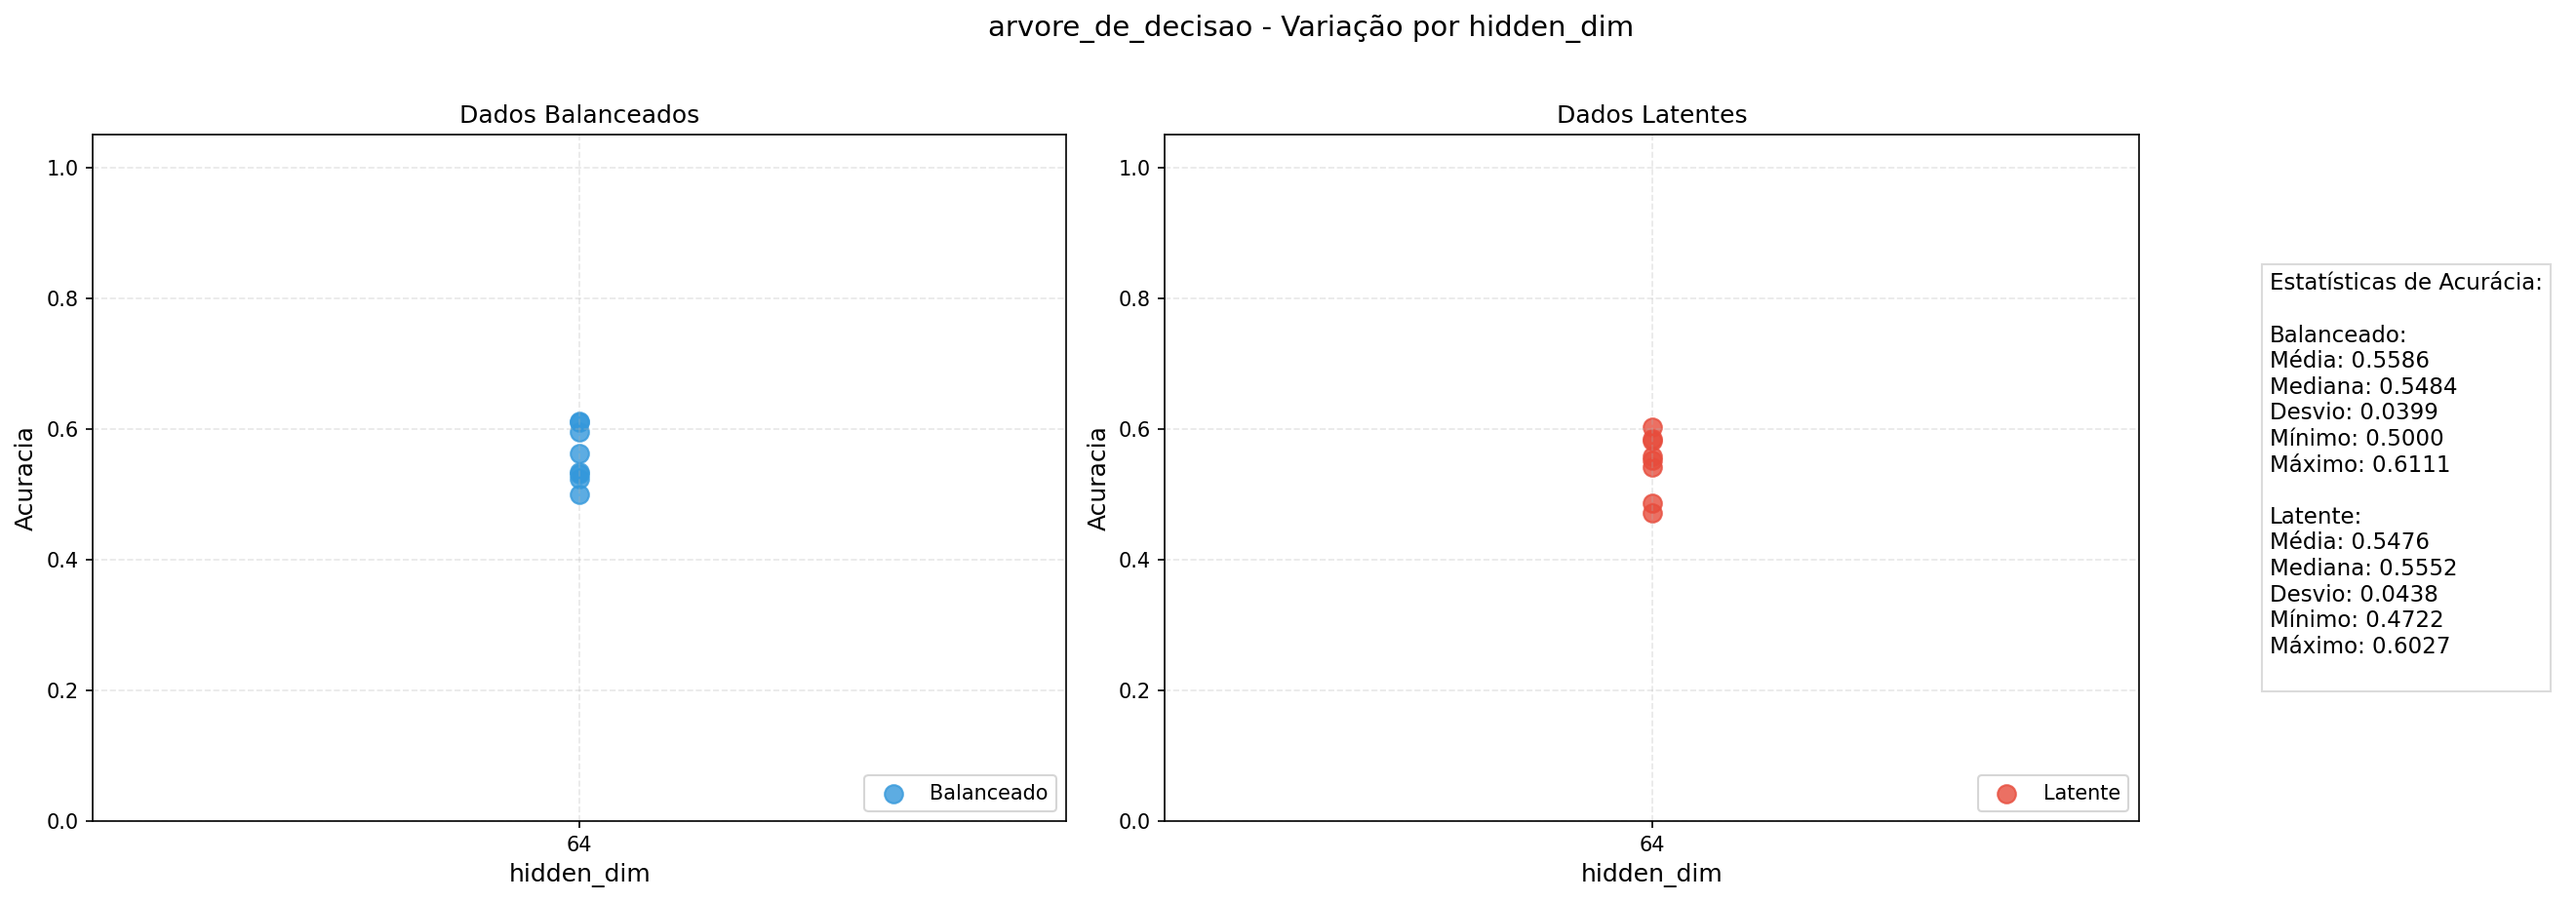
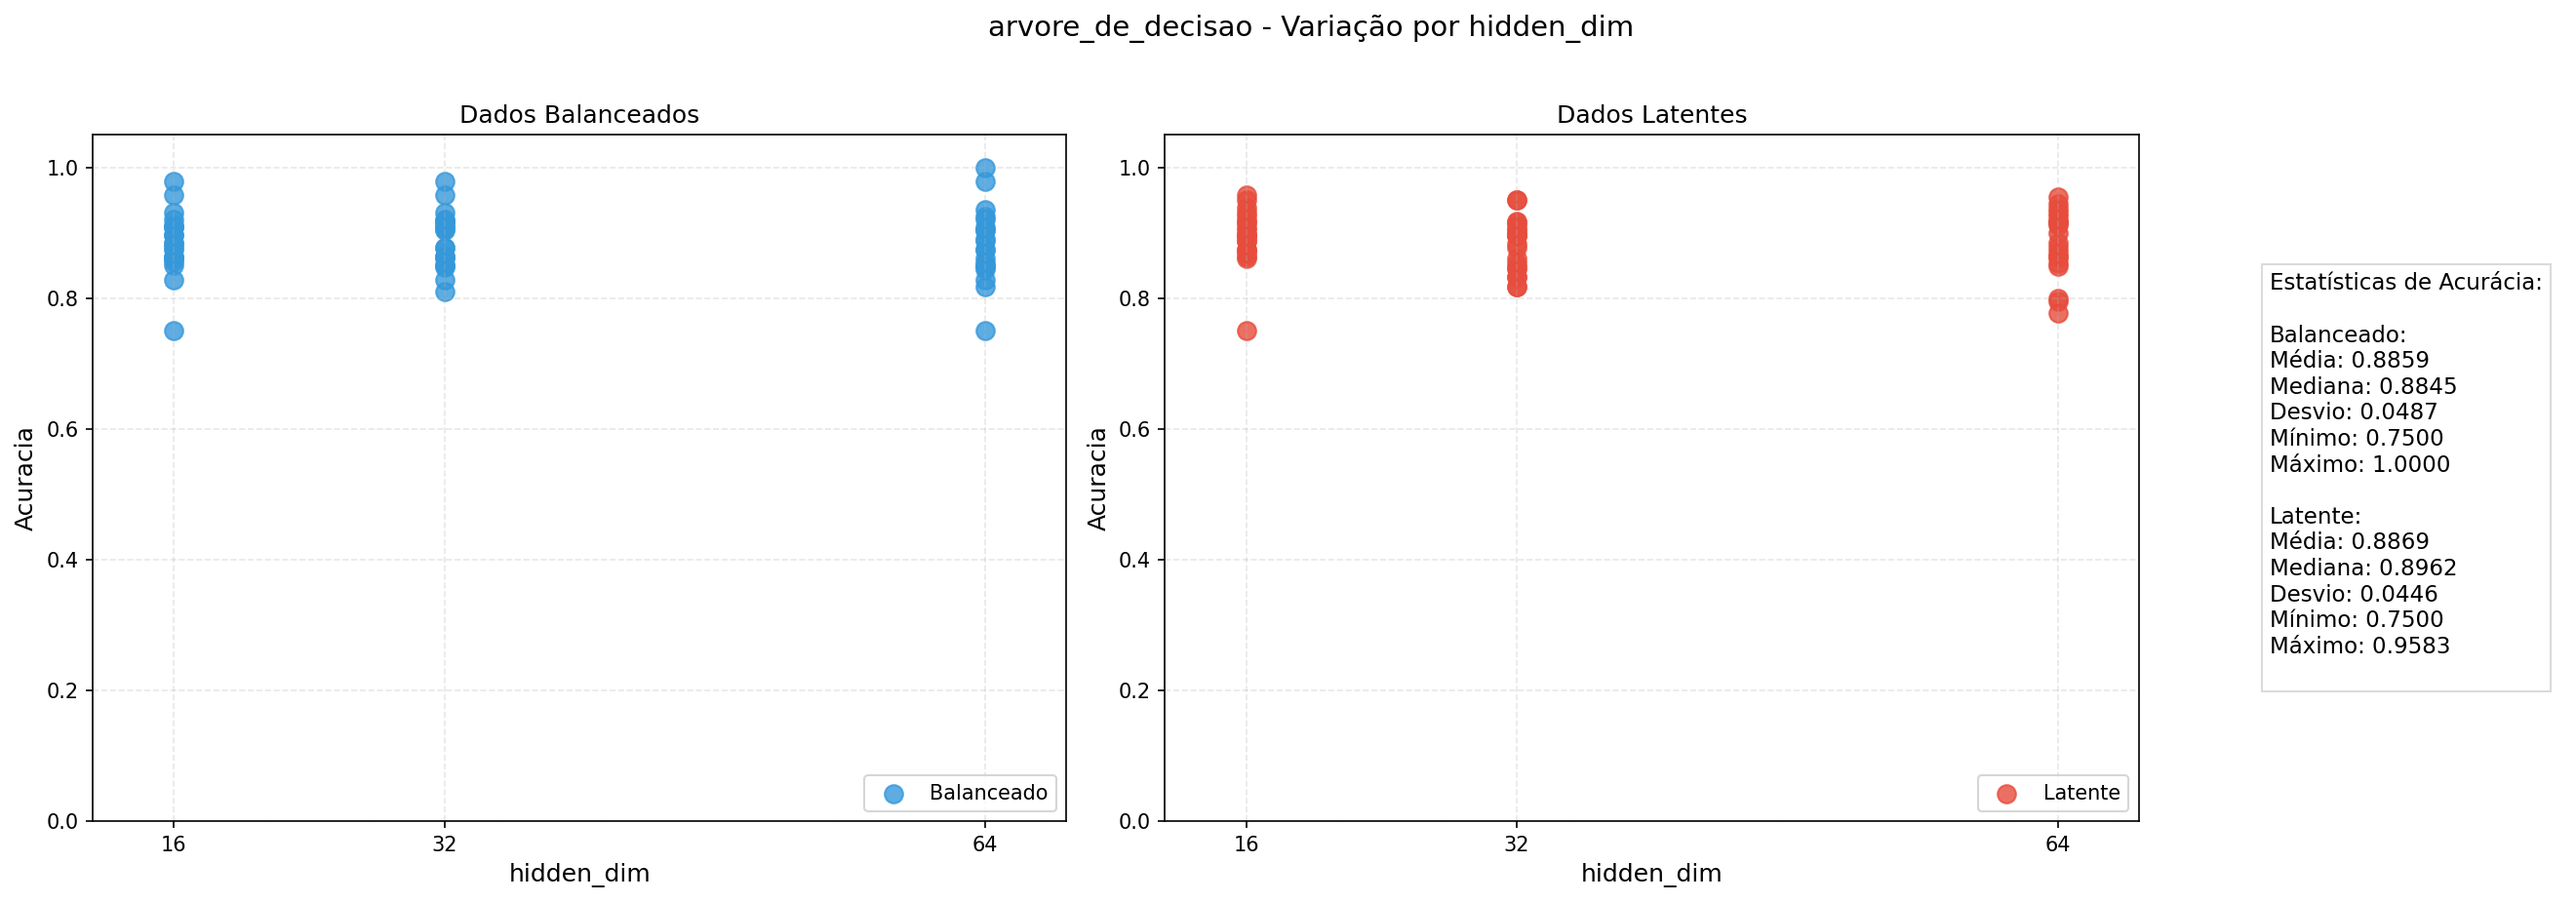
feat: add new data collection test

diff --git a/projeto_atualizado/gridsearch.py b/projeto_atualizado/gridsearch.py
@@ -244,17 +244,33 @@ def busca_grade_completa(
 if __name__ == "__main__":
 
     resultados = busca_grade_completa(
-        input_csvs=['dataset_A1_01_07.csv', 'dataset_A2_02_10.csv'],  # Múltiplos datasets de treino
-        test_csv='dataset_A2_08_08.csv',  # Dataset de teste separado
-        lista_time_ranges=[[(0, 18000, 0), (54000, 100000, 1)]],
+        input_csvs=[
+    "dataset_A1_01_07.csv",
+    "dataset_A2_02_10.csv",
+    "dataset_A2_08_08.csv",
+    "dataset_A2_09_07.csv",
+    "dataset_A2_12_08.csv",
+    "dataset_A2_14_10.csv",
+    "dataset_A2_28_08.csv",
+    "dataset_A3_04_12.csv",
+    "dataset_A3_09_12.csv",
+    "dataset_A3_11_12.csv",
+    "dataset_A4_06_01.csv",
+    "dataset_A4_13_01.csv",
+    "dataset_A4_16_12.csv",
+    "dataset_A4_19_12.csv",
+    "dataset_A5_22_01.csv",
+    "dataset_A5_27_01.csv"],      
+        test_csv='dataset_A5_28_01.csv',  # Dataset de teste separado
+        lista_time_ranges=[[(0, 18000, 0), (54000, 500000, 1)]],
         lista_grey_zones=[(18000, 54000)],
-        lista_n_amostras=[8, 12],
+        lista_n_amostras=[8, 10, 12, 16, 32],
         lista_janelamento=[True],
         lista_amostras_repetidas=[4, 6],
         lista_latent_dims=[4, 6],
-        lista_hidden_dims=[64],
+        lista_hidden_dims=[16, 32, 64],
         lista_learning_rates=[0.005],
-        lista_epochs=[300],
+        lista_epochs=[400],
         lista_batch_sizes=[32],
         lista_train_sizes=[0.7],
 

diff --git a/projeto_atualizado/funcao_visualizar_parametros.py b/projeto_atualizado/funcao_visualizar_parametros.py
@@ -163,6 +163,6 @@ def plot_accuracy_comparisons(json_path, output_dir='plots', metric='Acuracia'):
 
 if __name__ == "__main__":
 
-    caminho_json = r'resultados_personalizados_20250810_223948\metadados_completos.json'
+    caminho_json = r'resultados_personalizados_20250811_180930\metadados_completos.json'
 
     plot_accuracy_comparisons(caminho_json)
